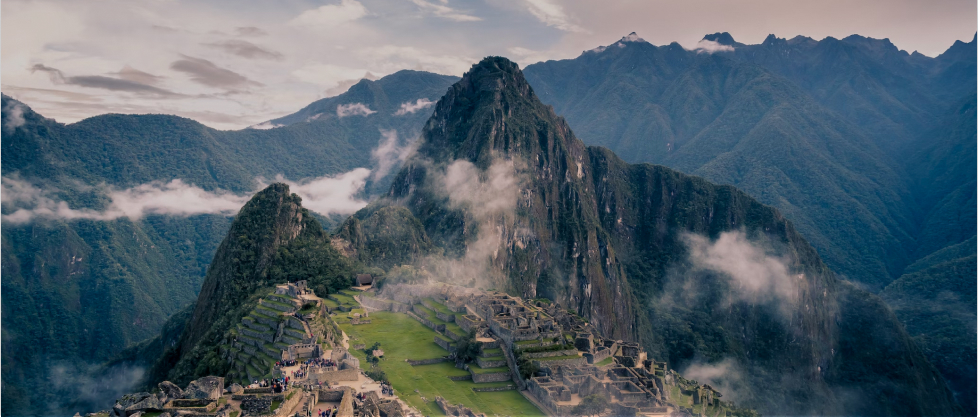
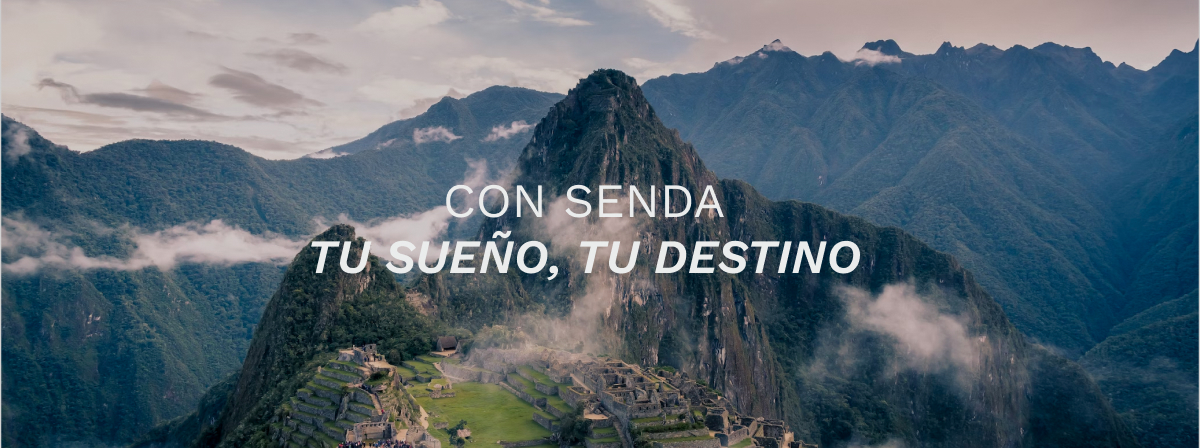
cambios en el slider de la home

diff --git a/templates/paginas/index.html b/templates/paginas/index.html
@@ -3,43 +3,30 @@
 {% block title %} Senda {% endblock %}
 {% block content %}
 <div>
-    <div style="background-image:url({% static 'images/bg_searchbar.jpg' %});" class="hero">
-        <h1 class=herotext id="line1">CON SENDA</h1>
-        <h1 class=herotext id="line2">TU SUEÑO, TU DESTINO</h1>
-        <div class="search-bar">
-            <div class="dropdown">
-                <select class="dropdownbar" id="first_select">
-                    <option value="option1">Continente </option>
-                    <option value="option2">Asia</option>
-                    <option value="option3">Europa</option>
-                    <option value="option2">America</option>
-                    <option value="option3">Africa</option>
-                </select>
-            </div>
-            <div class="dropdown">
-                <select class="dropdownbar">
-                    <option value="option1">Todos los países</option>
-                    <option value="option2">Option 2</option>
-                    <option value="option3">Option 3</option>
-                </select>
-            </div>
-            <div class="dropdown">
-                <select class="dropdownbar">
-                    <option value="option1">Tus presupuestos</option>
-                    <option value="option2">Option 2</option>
-                    <option value="option3">Option 3</option>
-                </select>
-            </div>
-            <button class="button">Encuentra tus viajes</button>
-        </div>
-    </div>
-    <div class="catagories">
-        <div style="background-image:url({% static 'images/playa.png' %});" class="card">Playa</div>
-        <div style="background-image:url({% static 'images/ciudad.png' %});" class="card">Ciudad</div>
-        <div style="background-image:url({% static 'images/selva.png' %});" class="card">Selva</div>
-        <div style="background-image:url({% static 'images/glamping.png' %});" class="card">Glamping</div>
-        <div style="background-image:url({% static 'images/ski.jpg' %});" class="card">Ski</div>
-        <div style="background-image:url({% static 'images/senderismo.png' %});" class="card">Senderismo
+	<div class="slider_container">
+		<div style="background-image:url({% static 'images/bg_searchbar.jpg' %});" class="slider_slide fade"></div>
+		<a href="/registro">
+		<div style="background-image:url({% static 'images/flyer_concierto.jpg' %});" class="slider_slide fade"></div>
+	</a>
+		<a class="prev" onclick="plusSlides(-1)">
+			<svg xmlns="http://www.w3.org/2000/svg" fill="none" viewBox="0 0 24 24" stroke-width="1.5" stroke="currentColor">
+				<path stroke-linecap="round" stroke-linejoin="round" d="M19.5 12h-15m0 0l6.75 6.75M4.5 12l6.75-6.75" />
+			</svg>
+		</a>
+		<a class="next" onclick="plusSlides(1)">
+			<svg xmlns="http://www.w3.org/2000/svg" fill="none" viewBox="0 0 24 24" stroke-width="1.5" stroke="currentColor">
+				<path stroke-linecap="round" stroke-linejoin="round" d="M4.5 12h15m0 0l-6.75-6.75M19.5 12l-6.75 6.75" />
+			</svg>
+		</a>
+	</div>
+
+    <div class="category_grid">
+        <div style="background-image:url({% static 'images/playa.png' %});" class="category_card">Playa</div>
+        <div style="background-image:url({% static 'images/ciudad.png' %});" class="category_card">Ciudad</div>
+        <div style="background-image:url({% static 'images/selva.png' %});" class="category_card">Selva</div>
+        <div style="background-image:url({% static 'images/glamping.png' %});" class="category_card">Glamping</div>
+        <div style="background-image:url({% static 'images/ski.jpg' %});" class="category_card">Ski</div>
+        <div style="background-image:url({% static 'images/senderismo.png' %});" class="category_card">Senderismo
         </div>
     </div>
     <div class="promotion">
@@ -52,5 +39,34 @@
                 class="slide"></div>
         </div>
     </div>
+
+	<script>
+		let slideIndex = 1;
+		showSlides(slideIndex);
+
+		function plusSlides(n) {
+		showSlides(slideIndex += n);
+		}
+		
+		function currentSlide(n) {
+		showSlides(slideIndex = n);
+		}
+
+		function showSlides(n) {
+		let i;
+		let slides = document.getElementsByClassName("slider_slide");
+		if (n > slides.length) {slideIndex = 1}
+		if (n < 1) {slideIndex = slides.length}
+		for (i = 0; i < slides.length; i++) {
+			slides[i].style.display = "none";
+		}
+		slides[slideIndex-1].style.display = "block";
+		}
+
+		function autoChangeSlide() {
+			plusSlides(1);
+		}
+		setInterval(autoChangeSlide, 4000);
+	</script>
 </div>
 {% endblock %}

diff --git a/static/css/style.css b/static/css/style.css
@@ -26,6 +26,7 @@
 /* Large Desktop */
 @media (min-width: 1200px) {}
 
+/* ----- Inicio CSSs Generales --- No tocar ----- */
 body
 {
 	margin: 0;
@@ -34,21 +35,52 @@ body
 	font-family: 'Work Sans', sans-serif;
 }
 
-.zone_header
-{
+.zone_header {
 	width: 100%;
 	display: flex;
 	justify-content: center;
-	height: 100px;
+	height: 116px;
+	margin-bottom: 8px;
 }
 
-.zone_main
+.container_header
 {
+	width: 100%;
+	max-width: var(--container_width);
+	padding: 0 24px;
+	display: flex;
+	align-items: center;
+	box-sizing: border-box;
+}
+
+.zone_main {
 	width: 100%;
 	display: flex;
 	justify-content: center;
-	min-height: 600px;
 }
+
+.container_main {
+	width: 100%;
+	max-width: var(--container_width);
+	padding: 0 24px;
+	box-sizing: border-box;
+}
+
+@media (min-width: 992px) {
+
+	.container_main {
+		padding: 0;
+	}
+	
+	.container_header {
+		padding: 0;
+	}
+
+}
+
+
+/* ----- Inicio CSSs Generales --- No tocar ----- */
+
 
 .contenedor-titulo
 {
@@ -145,21 +177,9 @@ body
 	padding: 40px 0;
 }
 
-.container_header
-{
-	width: 100%;
-	max-width: var(--container_width);
-	padding: 0 20px;
-	display: flex;
-	align-items: center;
-}
 
-.container_main
-{
-	width: 100%;
-	max-width: var(--container_width);
-	padding: 0 20px;
-}
+
+
 
 .container_footer
 {
@@ -287,43 +307,6 @@ body
 	background-color: var(--clr_grey_dark);
 }
 
-.hero
-{
-	width: 100%;
-	text-align: center;
-	height: 417px;
-	background-size: cover;
-	background-position: center;
-	margin-bottom: 50px;
-	display: flex;
-	justify-content: center; /* center vertical */
-	flex-direction: column; /* put one item on another */
-	align-items: center; /* center horizontal */
-}
-
-
-.catagories
-{
-	display: grid;
-    grid-template-columns: 1fr 1fr 1fr;
-	gap: 24px;
-	margin-bottom: 50px;
-}
-
-.card
-{
-    width: 100%;
-    height: 230px;
-    background-repeat: no-repeat;
-    background-position: center;
-    background-size: cover;
-    color: #EAECEC;
-	font-family: 'Work Sans', sans-serif;
-	display: flex;
-    align-items: center;
-    justify-content: center;
-	font-size: xx-large;
-}
 
 .slide
 {
@@ -408,11 +391,6 @@ body
 	padding: 10px 16px;
 	border: 0px;
 	height: 37px;
-}
-
-.herotext
-{
-	color: #EAECEC;
 }
 
 #line1{

diff --git a/static/css/home.css b/static/css/home.css
@@ -1,0 +1,76 @@
+
+
+.category_grid {
+	display: grid;
+	grid-template-columns: 1fr 1fr 1fr;
+	gap: 24px;
+	margin-bottom: 50px;
+}
+
+.category_card {
+	width: 100%;
+	height: 230px;
+	background-repeat: no-repeat;
+	background-position: center;
+	background-size: cover;
+	color: #EAECEC;
+	font-family: 'Work Sans', sans-serif;
+	display: flex;
+	align-items: center;
+	justify-content: center;
+	font-size: xx-large;
+	border-radius: 24px;
+}
+
+
+
+/* Slideshow container */
+.slider_container {
+	width: 100%;
+	position: relative;
+	margin-bottom: 48px;
+}
+
+.slider_slide {
+	width: 100%;
+	height: 448px;
+	background-size: cover;
+	background-repeat: no-repeat;
+	background-position: center;
+	background-color: red;
+	border-radius: 24px;
+	padding: 24px;
+	display: flex;
+	box-sizing: border-box;
+}
+
+.prev svg, .next svg {
+	color: white;
+	width: 24px;
+	height: 24px;
+}
+
+.prev, .next {
+	cursor: pointer;
+	position: absolute;
+	top: 50%;
+	margin-top: -24px;
+	padding: 14px 15px 12px 16px;
+	transition: 0.6s ease;
+	user-select: none;
+}
+
+.next {
+	right: 0;
+	border-radius: 3px 0 0 3px;
+}
+
+.fade {
+  animation-name: fade;
+  animation-duration: 2s;
+}
+
+@keyframes fade {
+  from {opacity: .4}
+  to {opacity: 1}
+}

diff --git a/templates/plantilla/base.html b/templates/plantilla/base.html
@@ -7,6 +7,7 @@
 	<meta http-equiv="X-UA-Compatible" content="IE=edge">
 	<meta name="viewport" content="width=device-width, initial-scale=1.0">
 	<link rel="stylesheet" href="{% static 'css/style.css' %}">
+	<link rel="stylesheet" href="{% static 'css/home.css' %}">
 	<link rel="stylesheet" href="{% static 'css/login.css' %}">
 	<link rel="stylesheet" href="{% static 'css/nosotros.css' %}">
 
